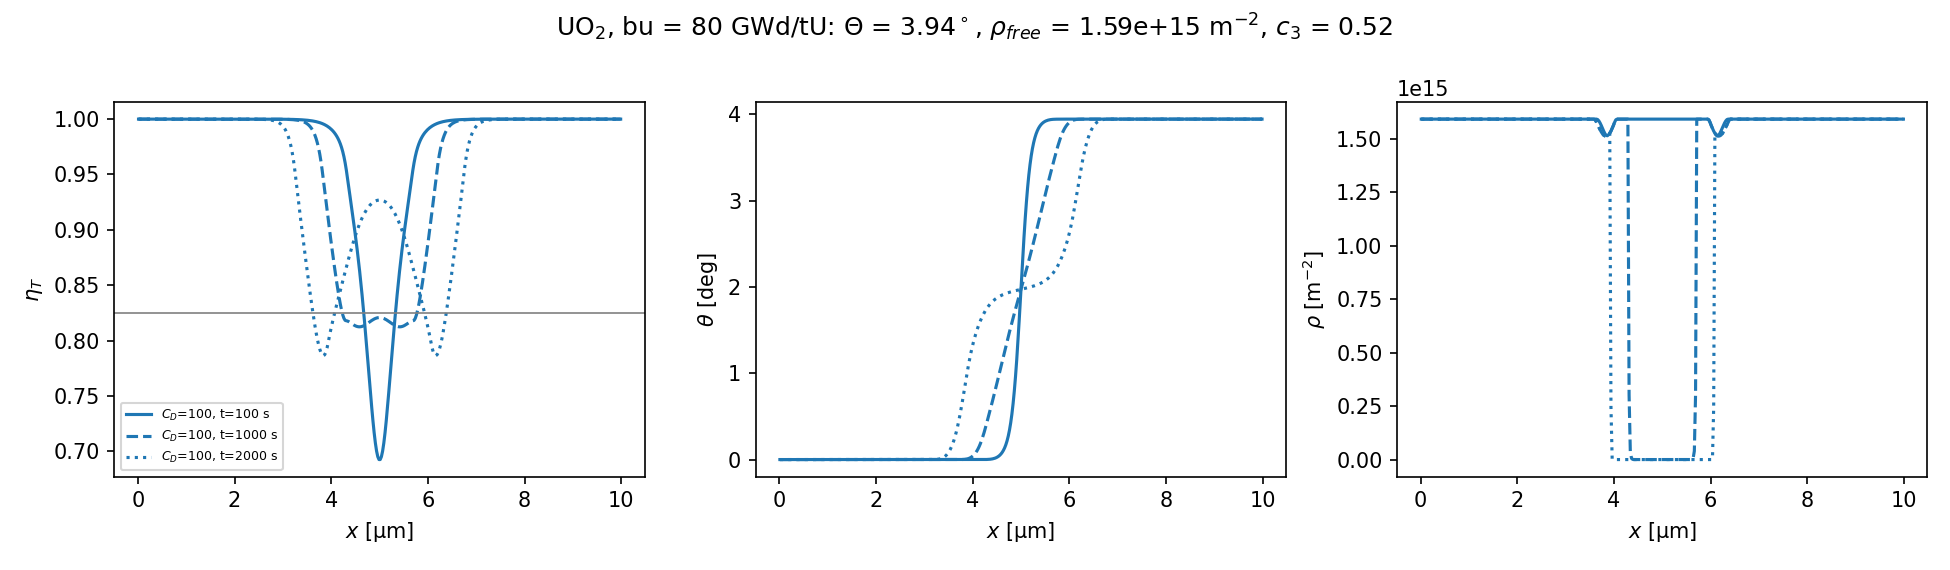
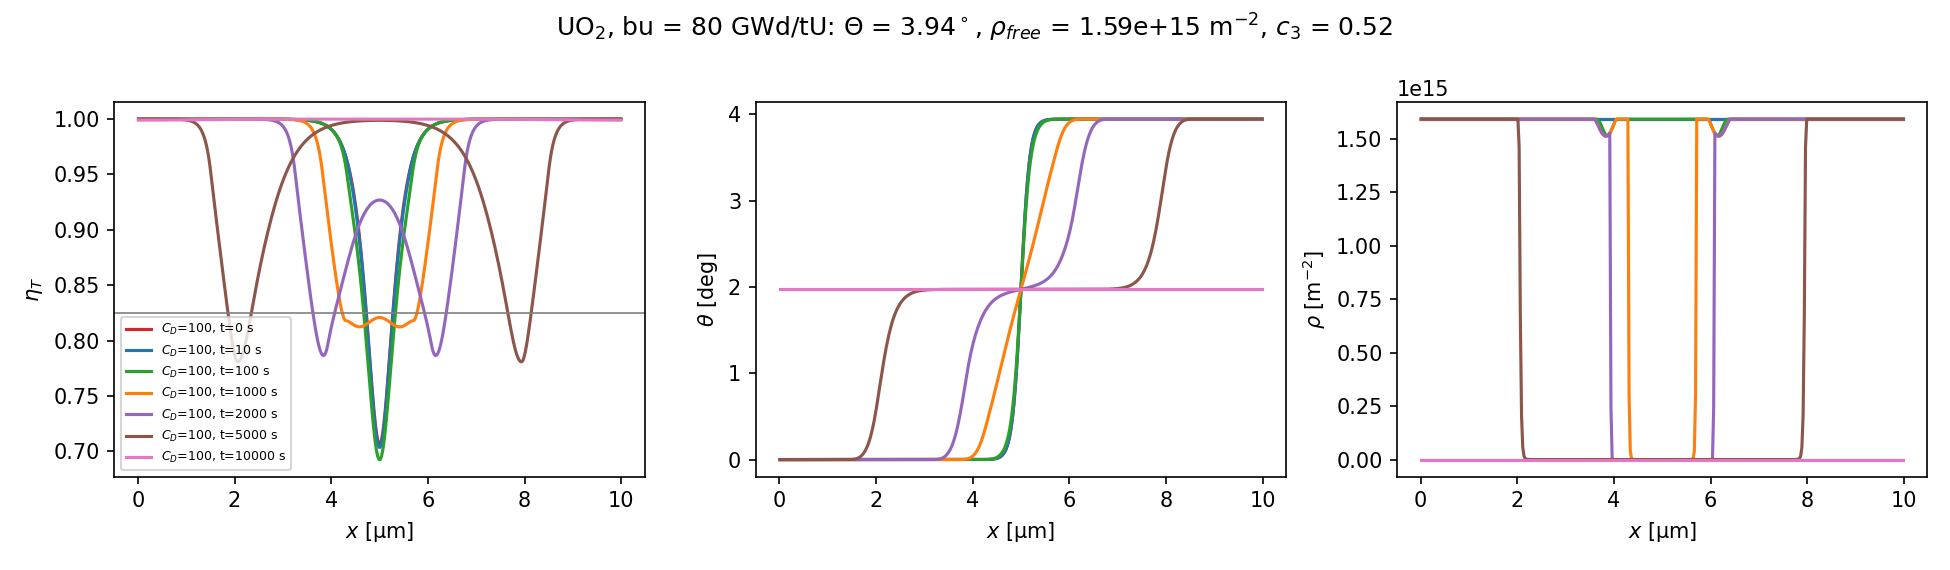
temp2

diff --git a/utilities/HBSformation/phasefield_tandogan_1d.py b/utilities/HBSformation/phasefield_tandogan_1d.py
@@ -89,20 +89,20 @@ T0 = 1.0                            # s      time unit of the mobilities
 class PhaseFieldParameters:
     """Table 1 of the paper (Cu), plus the dislocation-energy inputs."""
 
-    f0: float = 371.0e3             # Pa
+    f0: float = 371.0e3             # Pa     normalization coefficient
     nu: float = 1.0e-6              # m
     alpha: float = 20.0             # -
     mu: float = 2.5e-6 / math.pi    # m
     c: float = 3.0                  # -      Read-Shockley log term, Eq. (35)
     tau_eta: float = 1.0e4          # f0*t0  heat-treatment value
     tau_hat: float = 1.0e1          # f0*t0  heat-treatment value
-    lam: float = 0.3                # -      lambda, Eq. (15)
+    lam: float = 0.3                # -      lambda
     shear_modulus: float = 75.0e9   # Pa     mu^e
     burgers: float = 0.2556e-9      # m
-    c1: float = 100.0               # -      Eq. (37)
-    c2: float = 0.95                # -
-    c3: float = 1.7                 # -
-    c_d: float = 100.0              # -      recovery, Eq. (28)
+    c1: float = 100.0               # -      Fig. 4 of the paper
+    c2: float = 0.95                # -      Fig. 4 of the paper
+    c3: float = 1.7                 # -      Fig. 4 of the paper
+    c_d: float = 100.0              # -      recovery, Eq. (28), fig. 4 of the paper
 
     @property
     def stored_energy_per_rho(self):
@@ -117,7 +117,7 @@ def _g_raw(eta, c):
     return (7.0 * eta ** 3 - 6.0 * eta ** 4) / (1.0 - eta) ** 3 + c * np.log(1.0 - eta)
 
 
-def g_offset(c):
+def g_offset(c): #TBC
     """Eq. (36): shift so that g >= 0.01 on [0, 1)."""
     eta = np.linspace(0.0, ETA_CUTOFF, 200001)
     return -min(_g_raw(eta, c).min(), 0.0) + 0.01
@@ -279,12 +279,14 @@ def run_case(p, delta_theta_deg, rho0, t_end=1.0e4, grid=None, samples=(), every
     hit = np.flatnonzero(rho_c < 0.1 * rho0) if rho0 > 0 else np.array([], int)
     t_recovery = float(sol.t[hit[0]]) if hit.size else math.nan
     ends_crystalline = hit.size and min(sol.y[0, hit[0]], sol.y[n - 1, hit[0]]) > p.c2
+    # recovery alone is not a nucleus: the centre must also become crystalline
+    centre_ordered = hit.size and sol.y[centre, hit[0]:].max() > 0.95
 
     theta_c = math.degrees(sol.y[n + centre, -1])
     rho = sol.y[2 * n:, -1]
     recrystallised = float(np.mean(rho < 0.1 * rho0)) if rho0 > 0 else 0.0
     return Outcome(delta_theta_deg, rho0, eta_equilibrium(rho0, p), eta_gb0,
-                   bool(ends_crystalline), t_recovery, recrystallised, theta_c,
+                   bool(ends_crystalline and centre_ordered), t_recovery, recrystallised, theta_c,
                    relaxed, sol)
 
 
@@ -480,8 +482,8 @@ def plot_profiles(p, delta_theta_deg, rho0, path, title, grid=None):
 
     grid = grid or Grid()
     n = grid.cells
-    times = [1e2, 1e3, 2e3]
-    styles = ["-", "--", ":"]
+    times = [0.0, 1e1, 1e2, 1e3, 2e3, 5e3, 1e4]
+    colors = ["tab:red", "tab:blue", "tab:green", "tab:orange", "tab:purple", "tab:brown", "tab:pink"]
     fig, axes = plt.subplots(1, 3, figsize=(13, 3.8))
 #    for c_d, colour in [(0.0, "tab:red"), (p.c_d, "tab:blue")]:
     for c_d, colour in [(p.c_d, "tab:blue")]:
@@ -490,12 +492,12 @@ def plot_profiles(p, delta_theta_deg, rho0, path, title, grid=None):
         print(f"  C_D = {c_d:g}: nucleated = {out.nucleated}, "
               f"t_recovery = {out.t_recovery:g} s")
         x = grid.x * 1e6
-        for k, ls in enumerate(styles):
+        for k, colour in enumerate(colors):
             y = state_at(out, times[k])
             label = f"$C_D$={c_d:g}, t={times[k]:g} s"
-            axes[0].plot(x, y[:n], ls, color=colour, label=label)
-            axes[1].plot(x, np.degrees(y[n:2 * n]), ls, color=colour)
-            axes[2].plot(x, y[2 * n:], ls, color=colour)
+            axes[0].plot(x, y[:n], color=colour, label=label)
+            axes[1].plot(x, np.degrees(y[n:2 * n]), color=colour)
+            axes[2].plot(x, y[2 * n:], color=colour)
     axes[0].axhline(eta_equilibrium(rho0, p), color="grey", lw=0.8)
     axes[0].set_ylabel(r"$\eta_T$")
     axes[1].set_ylabel(r"$\theta$ [deg]")
